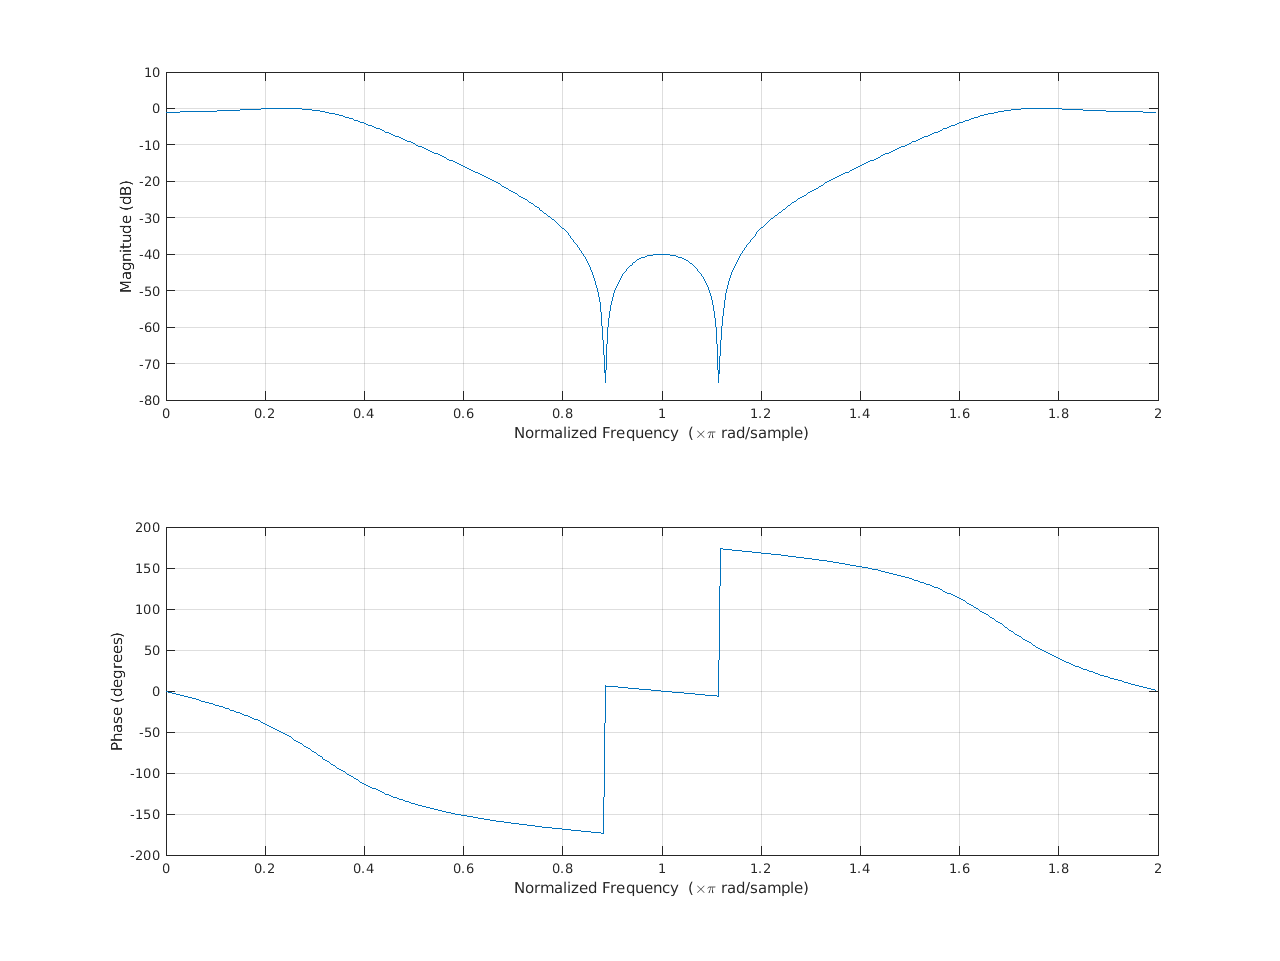
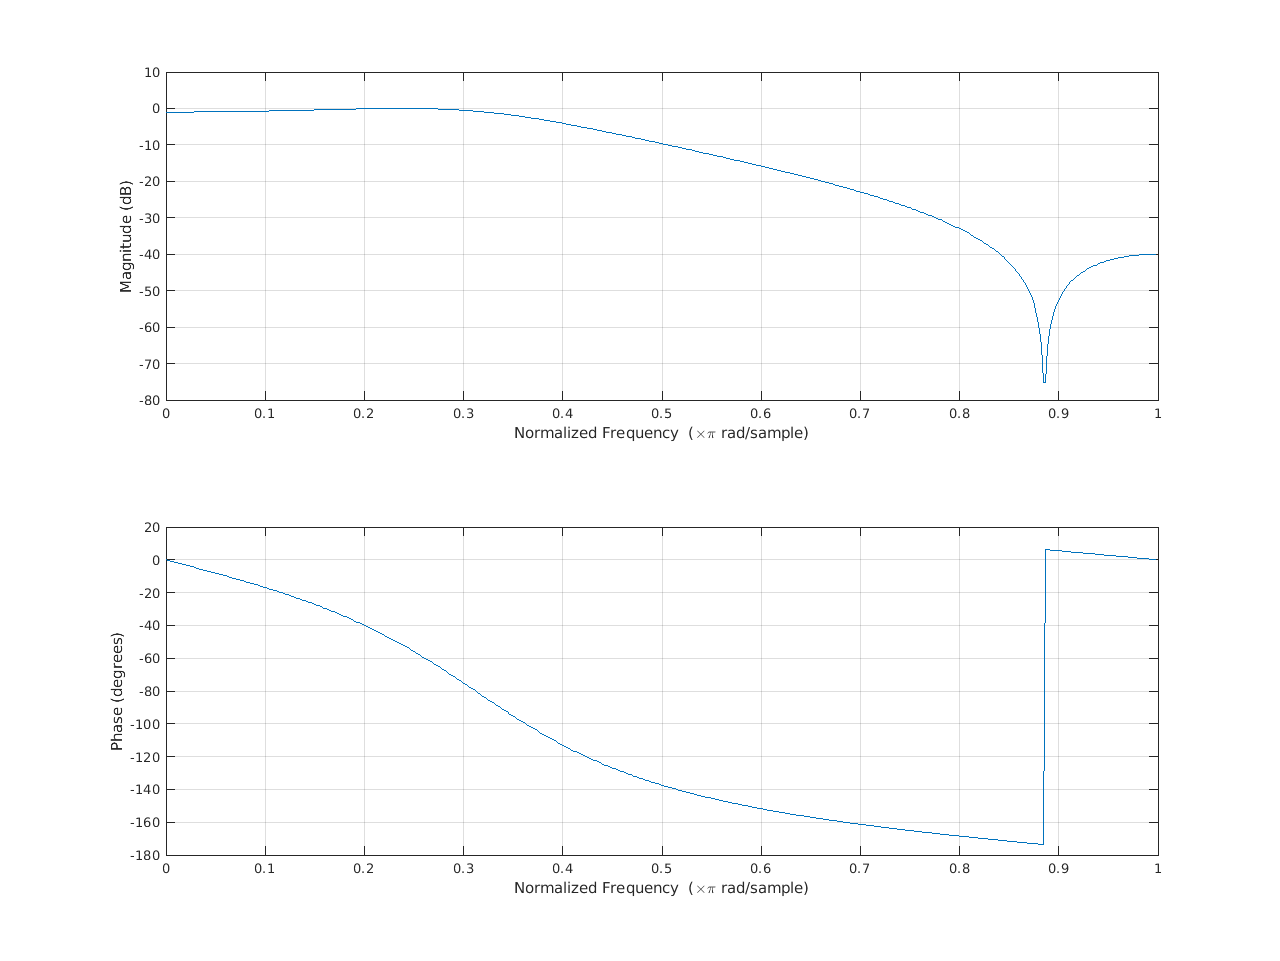
feat(dsys): proc-sin lista 03

diff --git a/case/_exercise/dynamic-systems/22-02-list-03/q15/q15.m b/case/_exercise/dynamic-systems/22-02-list-03/q15/q15.m
@@ -39,5 +39,5 @@ grid on;
 
 % Normalized
 figure;
-freqz(b, a, 'whole');
+freqz(b, a);
 grid on;
